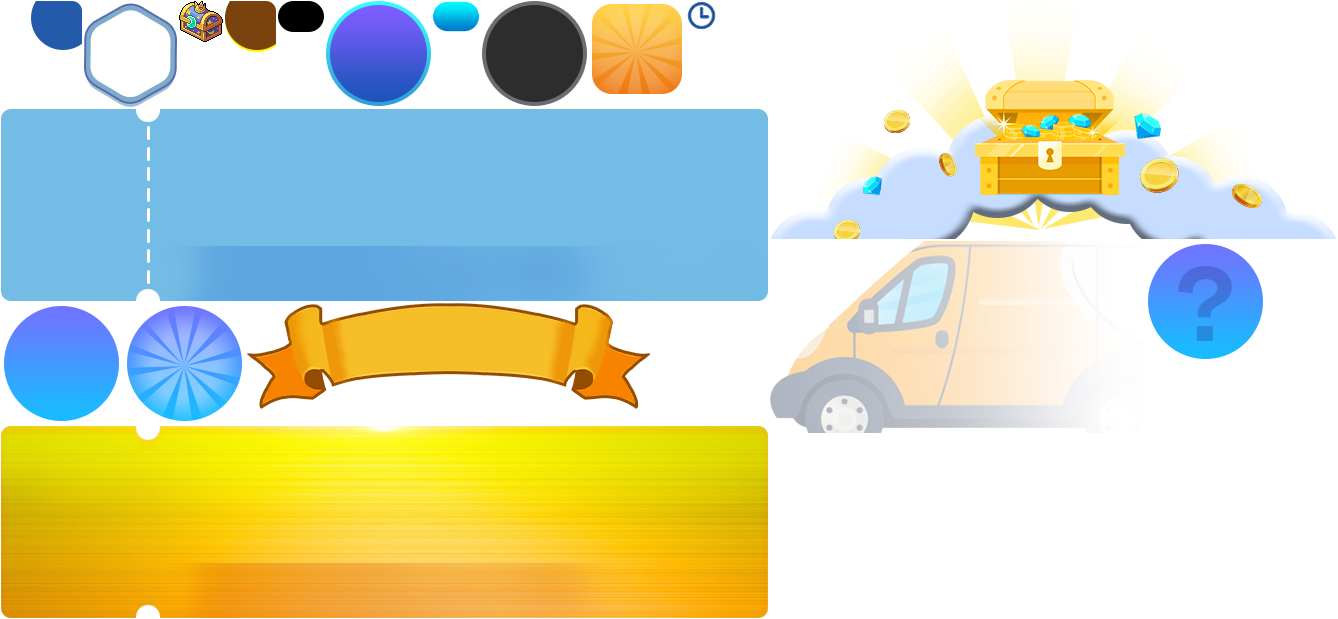
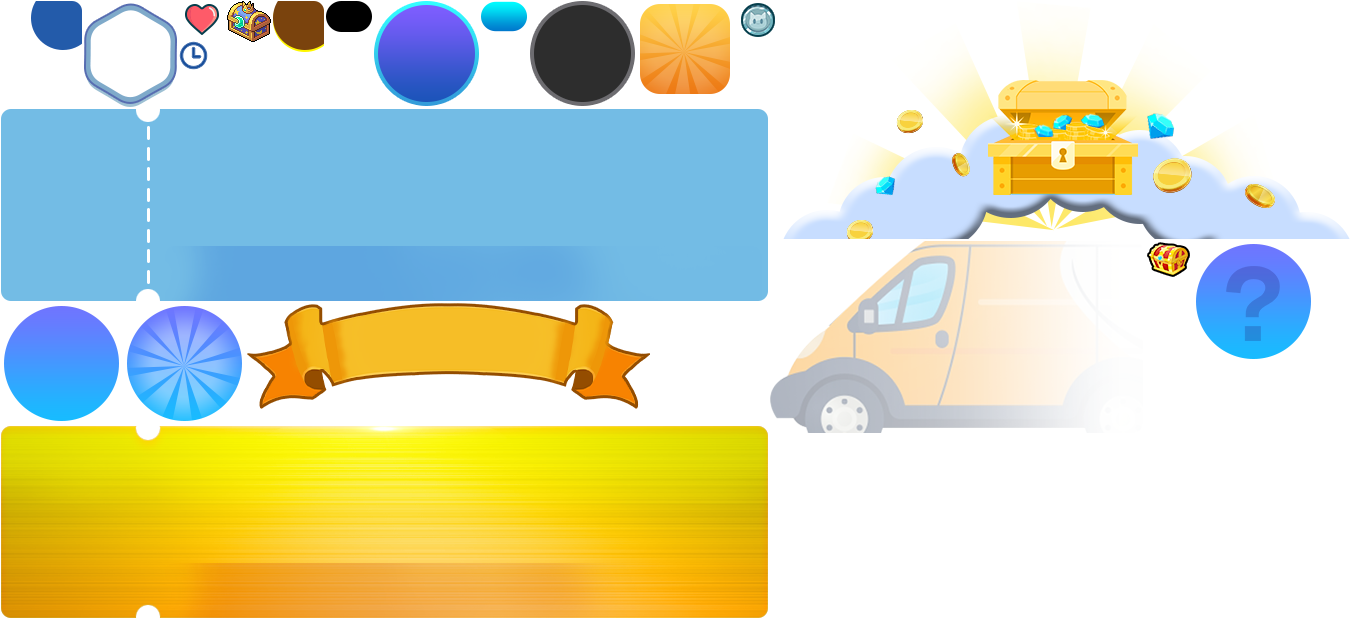
订单

diff --git a/src/ui/PicOrder/PicOrderPanel.ts b/src/ui/PicOrder/PicOrderPanel.ts
@@ -9,7 +9,7 @@ import { Button } from "../../../lib/rexui/lib/ui/button/Button";
 import { GameScroller } from "../../../lib/rexui/lib/ui/scroller/GameScroller";
 import { NineSliceButton } from "../../../lib/rexui/lib/ui/button/NineSliceButton";
 import { Handler } from "../../Handler/Handler";
-import { Url } from "../../utils/resUtil";
+import { Url, Coin } from "../../utils/resUtil";
 import { BBCodeText, NineSlicePatch } from "../../../lib/rexui/lib/ui/ui-components";
 import { ProgressBar } from "../../../lib/rexui/lib/ui/progressbar/ProgressBar";
 import { CoreUI } from "../../../lib/rexui/lib/ui/interface/event/MouseEvent";
@@ -175,11 +175,34 @@ export class PicOrderPanel extends BasePanel {
     }
 
     private onSendHandler(index: number, orderOperator: op_pkt_def.PKT_Order_Operator) {
-        this.emit("changeorder", orderOperator);
+        this.emit("changeorder", index, orderOperator);
     }
 
-    private onItemInfoTips(data: op_client.ICountablePackageItem) {
-
+    private onItemInfoTips(data: op_client.ICountablePackageItem, isdown: boolean, pos: Phaser.Geom.Point) {
+        this.itemtips.visible = isdown;
+        this.itemtips.x = pos.x;
+        this.itemtips.y = pos.y;
+        this.itemtips.setText(this.getDesText(data));
+    }
+    private getDesText(data: op_client.ICountablePackageItem) {
+        if (!data) data = <any>{ "sellingPrice": true, tradable: false };
+        let text: string = data.name + "\n";
+        let source = i18n.t("common.source");
+        source += data.source;
+        source = `[stroke=#333333][color=#333333]${source}[/color][/stroke]`;
+        text += source + "\n";
+        if (data.sellingPrice) {
+            let price = i18n.t("common.sold");
+            price += `${Coin.getName(data.sellingPrice.coinType)} x ${data.sellingPrice.price}`;
+            price = `[stroke=#333333][color=#333333]${price}[/color][/stroke]`;
+            text += price + "\n";
+        }
+        if (!data.tradable) {
+            let trade = i18n.t("furni_unlock.notrading");
+            trade = `[stroke=#333333][color=#ff0000]*${trade}[/color][/stroke]`;
+            text += trade;
+        }
+        return text;
     }
 }
 
@@ -240,6 +263,7 @@ class OrderItem extends Phaser.GameObjects.Container {
         this.acceleSpend.y = this.acceleBtn.y - this.acceleBtn.height * 0.5 - 10 * dpr;
         this.add(this.acceleSpend);
         this.calcuTime = new ImageValue(scene, 30 * dpr, 10 * dpr, dpr);
+        this.add(this.calcuTime);
         this.calcuTime.setTextStyle({
             color: "#144B99", fontSize: 10 * dpr, bold: true,
             //   stroke: "#144B99",
@@ -303,12 +327,11 @@ class OrderItem extends Phaser.GameObjects.Container {
         if (this.sendHandler) this.sendHandler.runWith([this.index, op_pkt_def.PKT_Order_Operator.PKT_ORDER_DELETE]);
     }
 
-    private onItemDownHandler() {
-        // if (this.tipsHandler) this.tipsHandler.runWith([]);
-    }
-
-    private onItemUpHandler() {
-
+    private onItemTipsHandler(item: MaterialItem, isdown: boolean) {
+        const data = item.itemData;
+        const pointx = this.x + item.x;
+        const pointy = this.y + item.y;
+        if (this.tipsHandler) this.tipsHandler.runWith([data, isdown, new Phaser.Geom.Point(pointx, pointy)]);
     }
 
     private deliveryState(data: op_client.IPKT_Quest) {
@@ -328,9 +351,9 @@ class OrderItem extends Phaser.GameObjects.Container {
                 item = new MaterialItem(this.scene, this.key, this.dpr);
                 this.add(item);
                 this.materialItems.push(item);
+                item.setHandler(new Handler(this, this.onItemTipsHandler));
             }
-            item.on("pointerdown", this.onItemDownHandler, this);
-            item.on("pointerup", this.onItemUpHandler, this);
+            item.addListen();
             item.setMaterialData(itemData);
             item.x = offsetpos + item.width * 0.5;
             offsetpos += item.width + 8 * this.dpr;
@@ -360,7 +383,7 @@ class OrderItem extends Phaser.GameObjects.Container {
                 this.imageValues.push(item);
             }
             item.setFrameValue(`x${reward.count}`, UIAtlasKey.commonKey, reward.display.texturePath = "iv_coin");
-            item.setTextStyle({ color: questType === op_pkt_def.PKT_Quest_Type.ORDER_QUEST_ROYAL_MISSION ? "#ffffff" : "#2154BD" });
+            item.setTextStyle({ color: questType === op_pkt_def.PKT_Quest_Type.ORDER_QUEST_ROYAL_MISSION ? "#ffffff" : "#2154BD"});
             item.x = offsetpos + item.width * 0.5;
             offsetpos += item.width + 20 * this.dpr;
             item.y = this.height * 0.5 - item.height * 0.5 - 4 * this.dpr;
@@ -372,16 +395,21 @@ class OrderItem extends Phaser.GameObjects.Container {
         if (!this.deliverybg) {
             this.deliverybg = this.scene.make.image({ key: this.key, frame: "order_transport" });
             this.addAt(this.deliverybg, 1);
+            this.deliverybg.x = this.width * 0.5 - this.deliverybg.width * 0.5 - 10 * this.dpr;
         } else this.deliverybg.visible = true;
         this.headbg.setFrame("order_ordinary_head_bg");
         this.refreshBtn.visible = true;
         this.refreshBtn.setInteractive();
         this.refreshBtn.setFrameNormal("order_delete_bg");
         this.sendTitle.visible = true;
-        this.calcuTime.setFrameValue("09:42", this.key, "order_time");
+        const minute = Math.floor(data.deliveryDeadline / 60);
+        const second = data.refreshDeadline % 60;
+        const timetext = `${minute < 10 ? "0" + minute : minute + ""}:${second < 10 ? "0" + second : second + ""}`;
+        this.calcuTime.visible = true;
+        this.calcuTime.setFrameValue(timetext, this.key, "order_time");
         this.calcuTime.resetSize();
-        this.calcuTime.x = this.width * 0.5 - this.calcuTime.width * 0.5;
-        this.calcuTime.y = -this.height * 0.5 + this.calcuTime.height * 0.5 + 10 * this.dpr;
+        this.calcuTime.x = this.width * 0.5 - this.calcuTime.width * 0.5 - 10 * this.dpr;
+        this.calcuTime.y = this.height * 0.5 - this.calcuTime.height * 0.5 - 5 * this.dpr;
         let offsetpos = -this.width * 0.5 + 60 * this.dpr;
         for (let i = 0; i < data.rewards.length; i++) {
             const reward = data.rewards[i];
@@ -439,10 +467,13 @@ class OrderItem extends Phaser.GameObjects.Container {
         this.acceleBtn.visible = true;
         this.acceleBtn.setInteractive();
         this.acceleSpend.visible = true;
-        this.acceleSpend.setFrameValue("", this.key, "");
         this.calcuTime.x = this.acceleBtn.x;
         this.calcuTime.y = this.acceleBtn.y + this.acceleBtn.height * 0.5 + 10 * this.dpr;
-        this.calcuTime.setText("09:42");
+        const minute = Math.floor(data.refreshDeadline / 60);
+        const second = data.refreshDeadline % 60;
+        const timetext = `${minute < 10 ? "0" + minute : minute + ""}:${second < 10 ? "0" + second : second + ""}`;
+        this.calcuTime.setText(timetext);
+        this.acceleSpend.setFrameValue(minute + "", this.key, "");
     }
     private hideAllElement() {
         this.sendBtn.visible = false;
@@ -455,8 +486,7 @@ class OrderItem extends Phaser.GameObjects.Container {
         if (this.deliverybg) this.deliverybg.visible = false;
         for (const item of this.materialItems) {
             item.visible = false;
-            item.off("pointerdown", this.onItemDownHandler, this);
-            item.off("pointerup", this.onItemUpHandler, this);
+            item.removeListen();
         }
         for (const item of this.orderRewards) {
             item.visible = false;
@@ -468,11 +498,13 @@ class OrderItem extends Phaser.GameObjects.Container {
 }
 
 class MaterialItem extends Phaser.GameObjects.Container {
+    public itemData: op_client.ICountablePackageItem;
     private key: string;
     private dpr: number;
     private bg: Phaser.GameObjects.Image;
     private icon: DynamicImage;
     private value: BBCodeText;
+    private tipsHandler: Handler;
     constructor(scene: Phaser.Scene, key: string, dpr: number) {
         super(scene);
         this.key = key;
@@ -490,6 +522,7 @@ class MaterialItem extends Phaser.GameObjects.Container {
         this.setInteractive();
     }
     public setMaterialData(data: op_client.ICountablePackageItem) {
+        this.itemData = data;
         const url = Url.getOsdRes(data.display.texturePath);
         this.icon.load(url, this, () => {
             this.icon.scale = 1;
@@ -497,6 +530,28 @@ class MaterialItem extends Phaser.GameObjects.Container {
             this.icon.scaleY = this.icon.scaleX;
         });
         this.value.text = `${data.count}/${data.neededCount}`;
+    }
+
+    public setHandler(tips: Handler) {
+        this.tipsHandler = tips;
+    }
+
+    public addListen() {
+        this.on("pointerdown", this.onClickDownHandler, this);
+        this.on("pointerup", this.onClickUpHandler, this);
+    }
+
+    public removeListen() {
+        this.off("pointerdown", this.onClickDownHandler, this);
+        this.off("pointerup", this.onClickUpHandler, this);
+    }
+
+    private onClickDownHandler() {
+        if (this.tipsHandler) this.tipsHandler.runWith([this, true]);
+    }
+
+    private onClickUpHandler() {
+        if (this.tipsHandler) this.tipsHandler.runWith([this, false]);
     }
 }
 
@@ -509,7 +564,7 @@ class ImageValue extends Phaser.GameObjects.Container {
         this.dpr = dpr;
         this.setSize(width, height);
         this.icon = new DynamicImage(scene, 0, 0);
-        this.value = scene.make.text({ x: 0, y: offsetx, text: "10", style: { color: "#ffffff", fontSize: 8 * dpr, fontFamily: Font.DEFULT_FONT } });
+        this.value = scene.make.text({ x: 0, y: offsetx, text: "10", style: { color: "#ffffff", fontSize: 10 * dpr, fontFamily: Font.DEFULT_FONT } });
         this.value.setOrigin(0, 0.5);
         this.add([this.icon, this.value]);
     }
